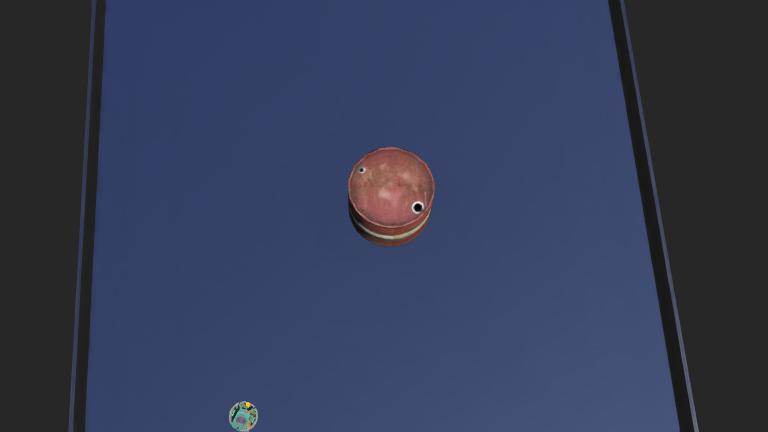
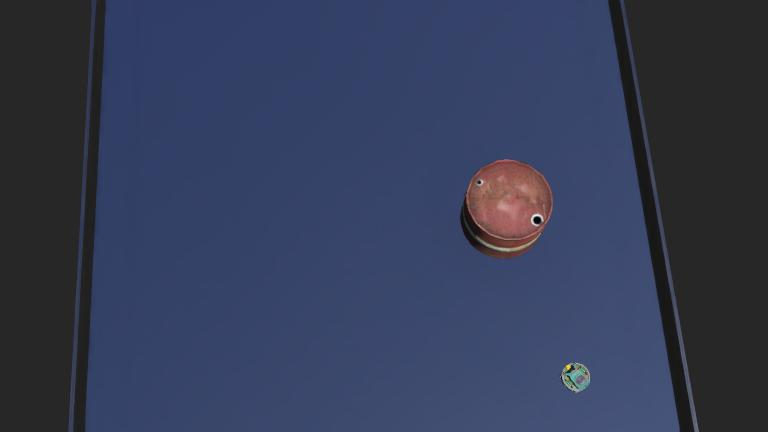
changed combined

Changed region(s): [[0.4375, 0.331, 0.7188, 0.6019], [0.2812, 0.9329, 0.3438, 1.0], [0.7188, 0.8426, 0.7812, 0.9028]]

diff --git a/Projects/Project1/controllers/q2c_combined_v1/q2c_combined_v1.py b/Projects/Project1/controllers/q2c_combined_v1/q2c_combined_v1.py
@@ -2,7 +2,7 @@ from controller import Robot
 import math
 
 MAX_SPEED = 6.28
-GOAL = [-0.35471, -0.35471]
+GOAL = [0.35471, 0.35471]
 
 class Controller(Robot):
     SPEED = 6
@@ -51,7 +51,7 @@ class Controller(Robot):
         # Compute Net Force by summing them:
         final_left_force = att_force_left + rep_force_left
         final_right_force = att_force_right + rep_force_right
-
+        #return rep_force_left, rep_force_right
         return final_left_force, final_right_force
     
     
@@ -101,14 +101,28 @@ class Controller(Robot):
         # print(f"ps7_value: {ps7_value}")
         # print("---------------------------------------------------------")
         
+        MAX_SV = 4095
+        MIN_SV = 34
+        MAX_SP = 6.28
+        MIN_SP = 3.14
         #RIGHT SIDE OF ROBOT
         if (ps0_value > 80 or ps1_value > 100 or ps2_value > 120) :
-            right_force = (max(ps0_value, ps1_value, ps2_value) / (4095/6.28))
+            right_sensor_value = (max(ps0_value, ps1_value, ps2_value) - MIN_SV) / (MAX_SV - MIN_SV)
+            # Map sensor values to speed values: MIN + (norm_sensor * (MAX - MIN))
+            right_force = (MIN_SP + (right_sensor_value * (MAX_SP - MIN_SP)))
+            #right_force = right_sensor_value / (4095/6.28)
+            #right_force = (max(ps0_value, ps1_value, ps2_value) / (4095/6.28))
         else:
             right_force = 0
         #LEFT SIDE OF ROBOT
         if (ps7_value > 80 or ps6_value > 100 or ps5_value > 120) :
-            left_force = (max(ps7_value, ps6_value, ps5_value) / (4095/6.28))
+                    # Normalize sensor values:  Value - MIN / MAX - MIN
+            left_sensor_value = (max(ps7_value, ps6_value, ps5_value) - MIN_SV) / (MAX_SV - MIN_SV)
+            # Map sensor values to speed values: MIN + (norm_sensor * (MAX - MIN))
+            left_force = (MIN_SP + (left_sensor_value * (MAX_SP - MIN_SP)))
+            #left_force = (max(ps7_value, ps6_value, ps5_value) / (4095/6.28))
+            #left_force = left_sensor_value / (4095/6.28)
+
         else:
             left_force = 0
         return left_force, right_force
